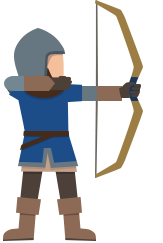
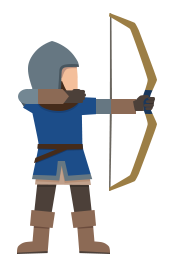
Monster and archer positioning and movement, animation

Changed region(s): [[0.0, 0.0, 0.8896, 1.0]]

diff --git a/Assets/Characters/MonsterScript.cs b/Assets/Characters/MonsterScript.cs
@@ -1,15 +1,100 @@
 using UnityEngine;
 using System.Collections;
-
+using System.Collections.Generic;
+using UnityEngine.UI;	
+[RequireComponent (typeof(DelayerScript))]
+[RequireComponent (typeof(Image))]
 public class MonsterScript : MonoBehaviour {
-
-	// Use this for initialization
-	void Start () {
-	
+	public enum SectorValues
+	{
+		Close,
+		Middle,
+		Far,
 	}
+	public SectorValues Sector {
+		get {
+			if (this.Position.x < this.MaxPosition.x / 3)
+				return SectorValues.Close;
+			if (this.Position.x >= this.MaxPosition.x / 3 && this.Position.x < this.MaxPosition.x * 2 / 3)
+				return SectorValues.Middle;
+			return SectorValues.Far;
+		}
+	}
+	public List<Sprite> MonsterWalkingSprites;
+	private int _currentSpriteIndex = 0;
+	public RectTransform areaRT;
+	private RectTransform rt;
+	private RectTransform parentRT;
+	private Vector2 _targetPosition;
+	public float monsterSpeed;
+	public float minDelayBeforePickingNewPosition;
+	public float maxDelayBeforePickingNewPosition;
+
 	
+	private DelayerScript _delayer;
+	private Image _image;
+	private Vector2 _position;
+	public Vector2 MaxPosition {
+		get {
+			return new Vector2 (areaRT.rect.width - rt.rect.width, areaRT.rect.height - rt.rect.height / 2);
+		}
+	}
+	public Vector2 Position {
+		get {
+			return _position;
+		}
+		private set {
+			this._position = value;
+			//debug
+			this.rt.anchoredPosition = new Vector2 (value.x + areaRT.offsetMin.x + rt.rect.width/2, 0);
+			//this.rt.offsetMin = new Vector2 (MaxPosition.x + areaRT.offsetMin.x + this.rt.rect.width, value.y);
+			//this.rt.offsetMax = new Vector2 (MaxPosition.x + areaRT.offsetMin.x + this.rt.rect.width, value.y);
+			//this.rt.offsetMin = new Vector2 (0, value.y);
+			//this.rt.offsetMax = new Vector2 (0, value.y);
+			//this.rt.offsetMin = new Vector2 (value.x + areaRT.offsetMin.x, value.y);
+			//this.rt.offsetMax = new Vector2 (value.x + areaRT.offsetMax.x, value.y);
+		}
+	}
+	void SelectNewTargetPosition () {
+		this._delayer.RunUniqueWithRandomDelay (minDelayBeforePickingNewPosition, maxDelayBeforePickingNewPosition, () => {
+			this._targetPosition = new Vector2 (Random.Range (0, MaxPosition.x), Random.Range (0,  MaxPosition.y));
+		});
+
+	}
+
+	void Start () {
+		this.rt = GetComponent <RectTransform> () as RectTransform;
+		this._delayer = GetComponent<DelayerScript> () as DelayerScript;
+		this._image = GetComponent<Image> () as Image;
+		this.parentRT = transform.parent.GetComponent<RectTransform> () as RectTransform;
+		StartCoroutine (InitCoroutine ());
+	}
+	IEnumerator InitCoroutine () {
+		yield return null;
+		this.rt.localPosition = Vector2.zero;
+		this.Position = new Vector2 (MaxPosition.x, 0);
+		CoreScript.Instance.Monster = this;
+	}
 	// Update is called once per frame
 	void Update () {
-	
+		if (Position != _targetPosition) {
+			Position = Vector2.MoveTowards (Position, _targetPosition, monsterSpeed * Time.deltaTime);
+			_delayer.RunUniqueWithFixedDelay (0.2f, () => {
+				if (this._currentSpriteIndex >= MonsterWalkingSprites.Count - 1) 
+					this._currentSpriteIndex = 0;
+				else
+					this._currentSpriteIndex++;
+				this._image.sprite = MonsterWalkingSprites[_currentSpriteIndex];
+			});
+		}
+		else {
+			SelectNewTargetPosition ();
+		}
+		var scale = this.transform.localScale;
+		if ((Position - _targetPosition).x >= 0) {
+			scale.x = 1;
+		} else
+			scale.x = -1;
+		this.transform.localScale = scale;
 	}
 }

diff --git a/Assets/DelayerScript.cs b/Assets/DelayerScript.cs
@@ -1,0 +1,50 @@
+using UnityEngine;
+using System.Collections;
+using System;
+using System.Collections.Generic;
+using System.Reflection;
+public class DelayerScript : MonoBehaviour
+{
+	List<MethodInfo> _runningActions = new List<MethodInfo> ();
+	public void RunUniqueWithFixedDelay (float delay, Action action) {
+		if (!_runningActions.Contains (action.Method)) {
+			_runningActions.Add (action.Method);
+			StartCoroutine (RunUniqueActionCoroutine (action, delay));
+		}
+	}
+	public void RunUniqueWithRandomDelay (float minDelay, float maxDelay, Action action) {
+		if (!_runningActions.Contains (action.Method)) {
+			_runningActions.Add (action.Method);
+			var delay = UnityEngine.Random.Range (minDelay, maxDelay);
+			StartCoroutine (RunUniqueActionCoroutine (action, delay));
+		}
+	}
+	public void RunWithFixedDelay (float delay, Action action) {
+		StartCoroutine (RunActionCoroutine (action, delay));
+	}
+	public void RunWithRandomDelay (float minDelay, float maxDelay, Action action) {
+		var delay = UnityEngine.Random.Range (minDelay, maxDelay);
+		StartCoroutine (RunActionCoroutine (action, delay));
+	}
+	private IEnumerator RunUniqueActionCoroutine (Action action, float delay = 0) {
+			yield return new WaitForSeconds (delay);
+			action.Invoke ();
+			_runningActions.Remove (action.Method);
+	}
+	private IEnumerator RunActionCoroutine (Action action, float delay = 0) {
+		yield return new WaitForSeconds (delay);
+		action.Invoke ();
+	}
+	// Use this for initialization
+	void Start ()
+	{
+	
+	}
+	
+	// Update is called once per frame
+	void Update ()
+	{
+	
+	}
+}
+

diff --git a/Assets/WindScript.cs b/Assets/WindScript.cs
@@ -1,5 +1,6 @@
 using UnityEngine;
 using System.Collections;
+[RequireComponent (typeof (DelayerScript))]
 public class WindScript : MonoBehaviour {
 	public float Strength { get; private set; }
 	public float TargetStrength { get; private set; }
@@ -7,22 +8,17 @@ public class WindScript : MonoBehaviour {
 	public float strengthAcceleration;
 	public float minTimeBeforeChange;
 	public float maxTimeBeforeChange;
-
-	private bool _isSelectNewTargetStrengthCoroutineRunning = false;
+	private DelayerScript delayer;
 	void Start () {
+		this.delayer = this.GetComponent<DelayerScript> () as DelayerScript;
 		this.Strength = (Random.value - 0.5f) * 2 * maxStrength;
 		this.TargetStrength = (Random.value - 0.5f) * 2 * maxStrength;
 	}
 	void SelectNewTargetStrength () {
-		if (!_isSelectNewTargetStrengthCoroutineRunning) {
-			_isSelectNewTargetStrengthCoroutineRunning = true;
-			StartCoroutine (SelectNewTargetStrengthCoroutine());
-		}
-	}
-	IEnumerator SelectNewTargetStrengthCoroutine () {
-		yield return new WaitForSeconds (Random.Range (this.minTimeBeforeChange, this.maxTimeBeforeChange));
-		this.TargetStrength = (Random.value - 0.5f) * 2 * maxStrength;
-		_isSelectNewTargetStrengthCoroutineRunning = false;
+		delayer.RunUniqueWithRandomDelay (minTimeBeforeChange, maxTimeBeforeChange, () => {
+			this.TargetStrength = (Random.value - 0.5f) * 2 * maxStrength;
+		});
+
 	}
 	// Update is called once per frame
 	void Update () {

diff --git a/Assets/Characters/ArcherScript.cs b/Assets/Characters/ArcherScript.cs
@@ -1,0 +1,40 @@
+using UnityEngine;
+using System.Collections;
+using UnityEngine.UI;
+
+[RequireComponent (typeof(Image))]
+public class ArcherScript : MonoBehaviour
+{
+	public bool IsLoaded {
+		get;
+		private set;
+	}
+
+	private Image image;
+	public Sprite archerUnloadedSprite;
+	public Sprite archerReadyAimingUpSprite;
+	public Sprite archerReadyAimingStraightSprite;
+	public Sprite archerReadyAimingDownSprite;
+	// Use this for initialization
+	void Start ()
+	{
+		this.IsLoaded = true;
+		this.image = GetComponent<Image> () as Image;
+	}
+	
+	// Update is called once per frame
+	void Update ()
+	{
+		if (IsLoaded) {
+			if (CoreScript.Instance.Monster.Sector == MonsterScript.SectorValues.Close)
+				this.image.sprite = archerReadyAimingDownSprite;
+			else {
+				if (CoreScript.Instance.Monster.Sector == MonsterScript.SectorValues.Middle)
+					this.image.sprite = archerReadyAimingStraightSprite;
+				else
+					this.image.sprite = archerReadyAimingUpSprite;
+			}
+		} else
+			this.image.sprite = archerUnloadedSprite;
+	}
+}

diff --git a/Assets/ScalerScript.cs b/Assets/ScalerScript.cs
@@ -14,13 +14,13 @@ public class ScalerScript : MonoBehaviour {
 		shootingAreaRT.offsetMin = new Vector2 (0, 0);
 		shootingAreaRT.offsetMax = new Vector2 (0, - _rectTransform.rect.height * 0.65f);
 
-		archerRT.anchoredPosition = new Vector2 (cliffAreaRT.rect.width * 0.8f, 0);
+		archerRT.anchoredPosition = new Vector2 (cliffAreaRT.rect.width * 0.6f, 0);
 		//archerRT.offsetMin = new Vector2 (cliffAreaRT.rect.width, cliffAreaRT.rect.width);
 		//archerRT.offsetMax = archerRT.offsetMin + new Vector2 (archerRT.rect.width, archerRT.rect.height);
 
 
-		monsterAreaRT.offsetMin = new Vector2 (cliffAreaRT.rect.width + 20f, 20f);
-		monsterAreaRT.offsetMax = new Vector2 (-20f, - _rectTransform.rect.height * 0.65f - 20f);
+		monsterAreaRT.offsetMin = new Vector2 (cliffAreaRT.rect.width, 0);
+		monsterAreaRT.offsetMax = new Vector2 (0, - _rectTransform.rect.height * 0.65f);
 		//monsterAreaRT.offsetMax = new Vector2 (20, 20);
 	}
 	

diff --git a/Assets/CoreScript.cs b/Assets/CoreScript.cs
@@ -2,10 +2,14 @@
 using System.Collections;
 [RequireComponent (typeof (WindScript))]
 public class CoreScript : MonoBehaviour {
-
+	public MonsterScript Monster;
+	public static CoreScript Instance {
+		get;
+		private set;
+	}
 	// Use this for initialization
 	void Start () {
-
+		Instance = this;
 	}
 	
 	// Update is called once per frame

diff --git a/Assets/ControlsScript.cs b/Assets/ControlsScript.cs
@@ -1,4 +1,4 @@
-using UnityEngine;
+using UnityEngine;
 using System.Collections;
 
 public class ControlsScript : MonoBehaviour {
@@ -10,6 +10,5 @@ public class ControlsScript : MonoBehaviour {
 	
 	// Update is called once per frame
 	void Update () {
-	
 	}
 }
